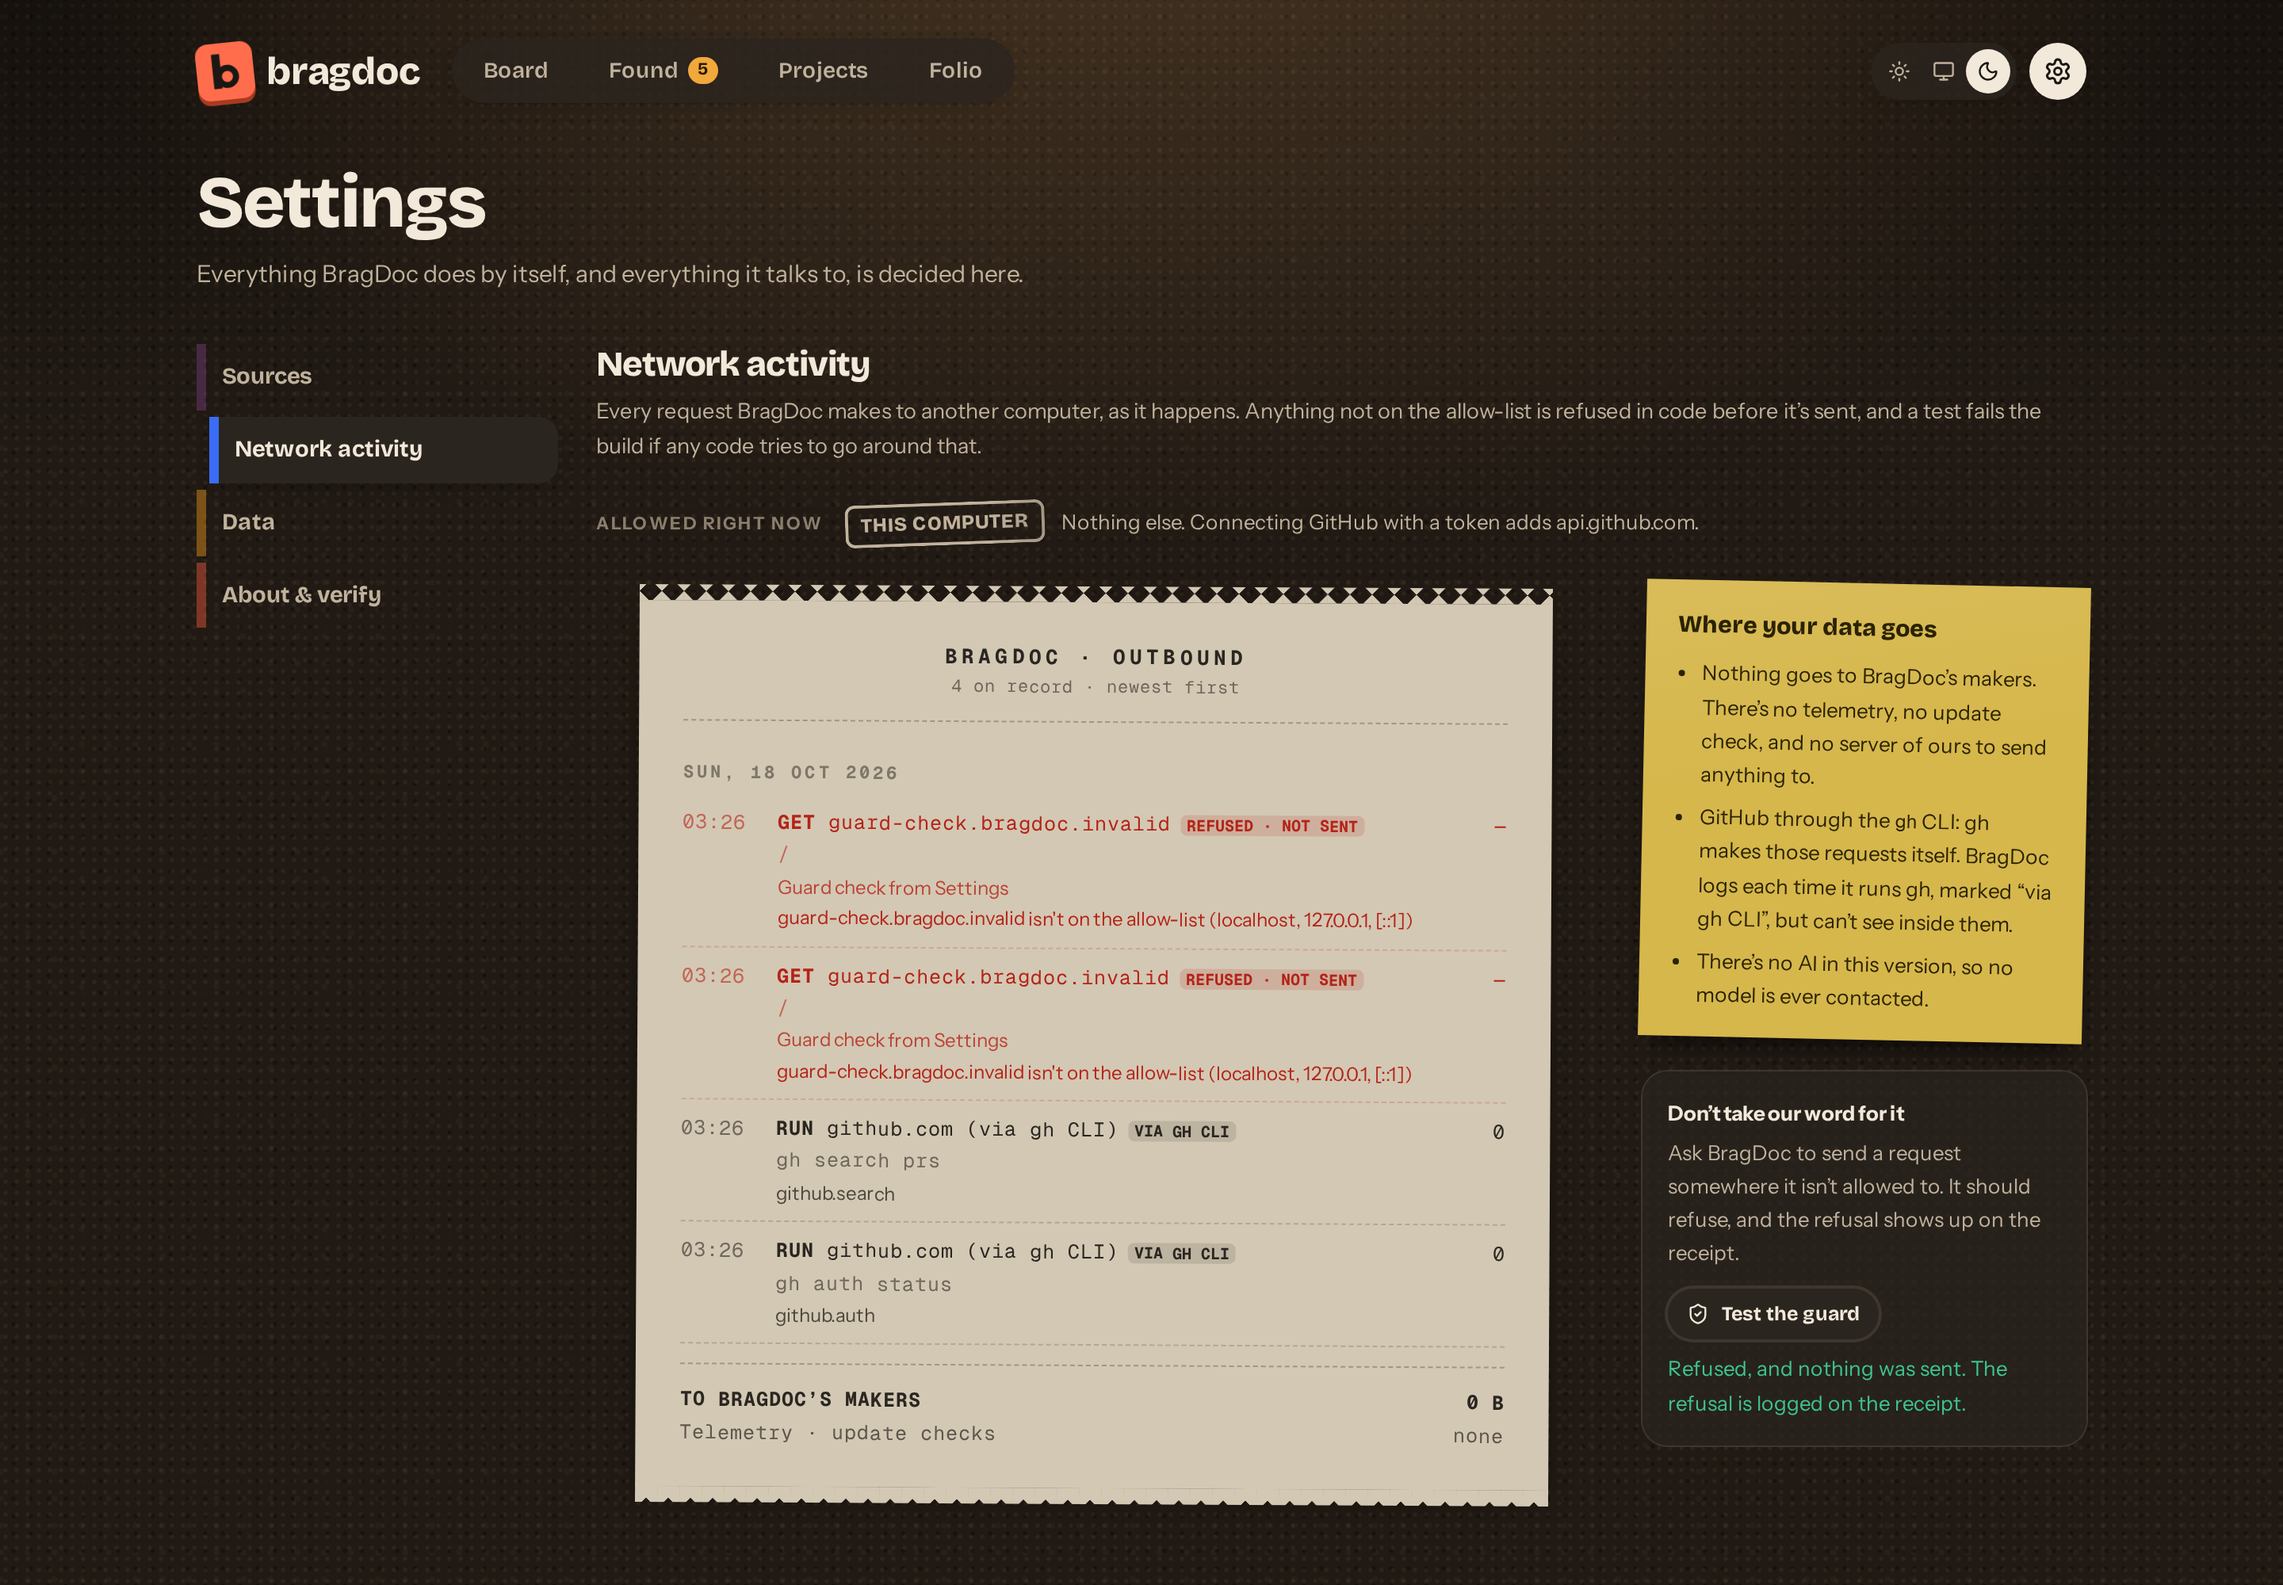
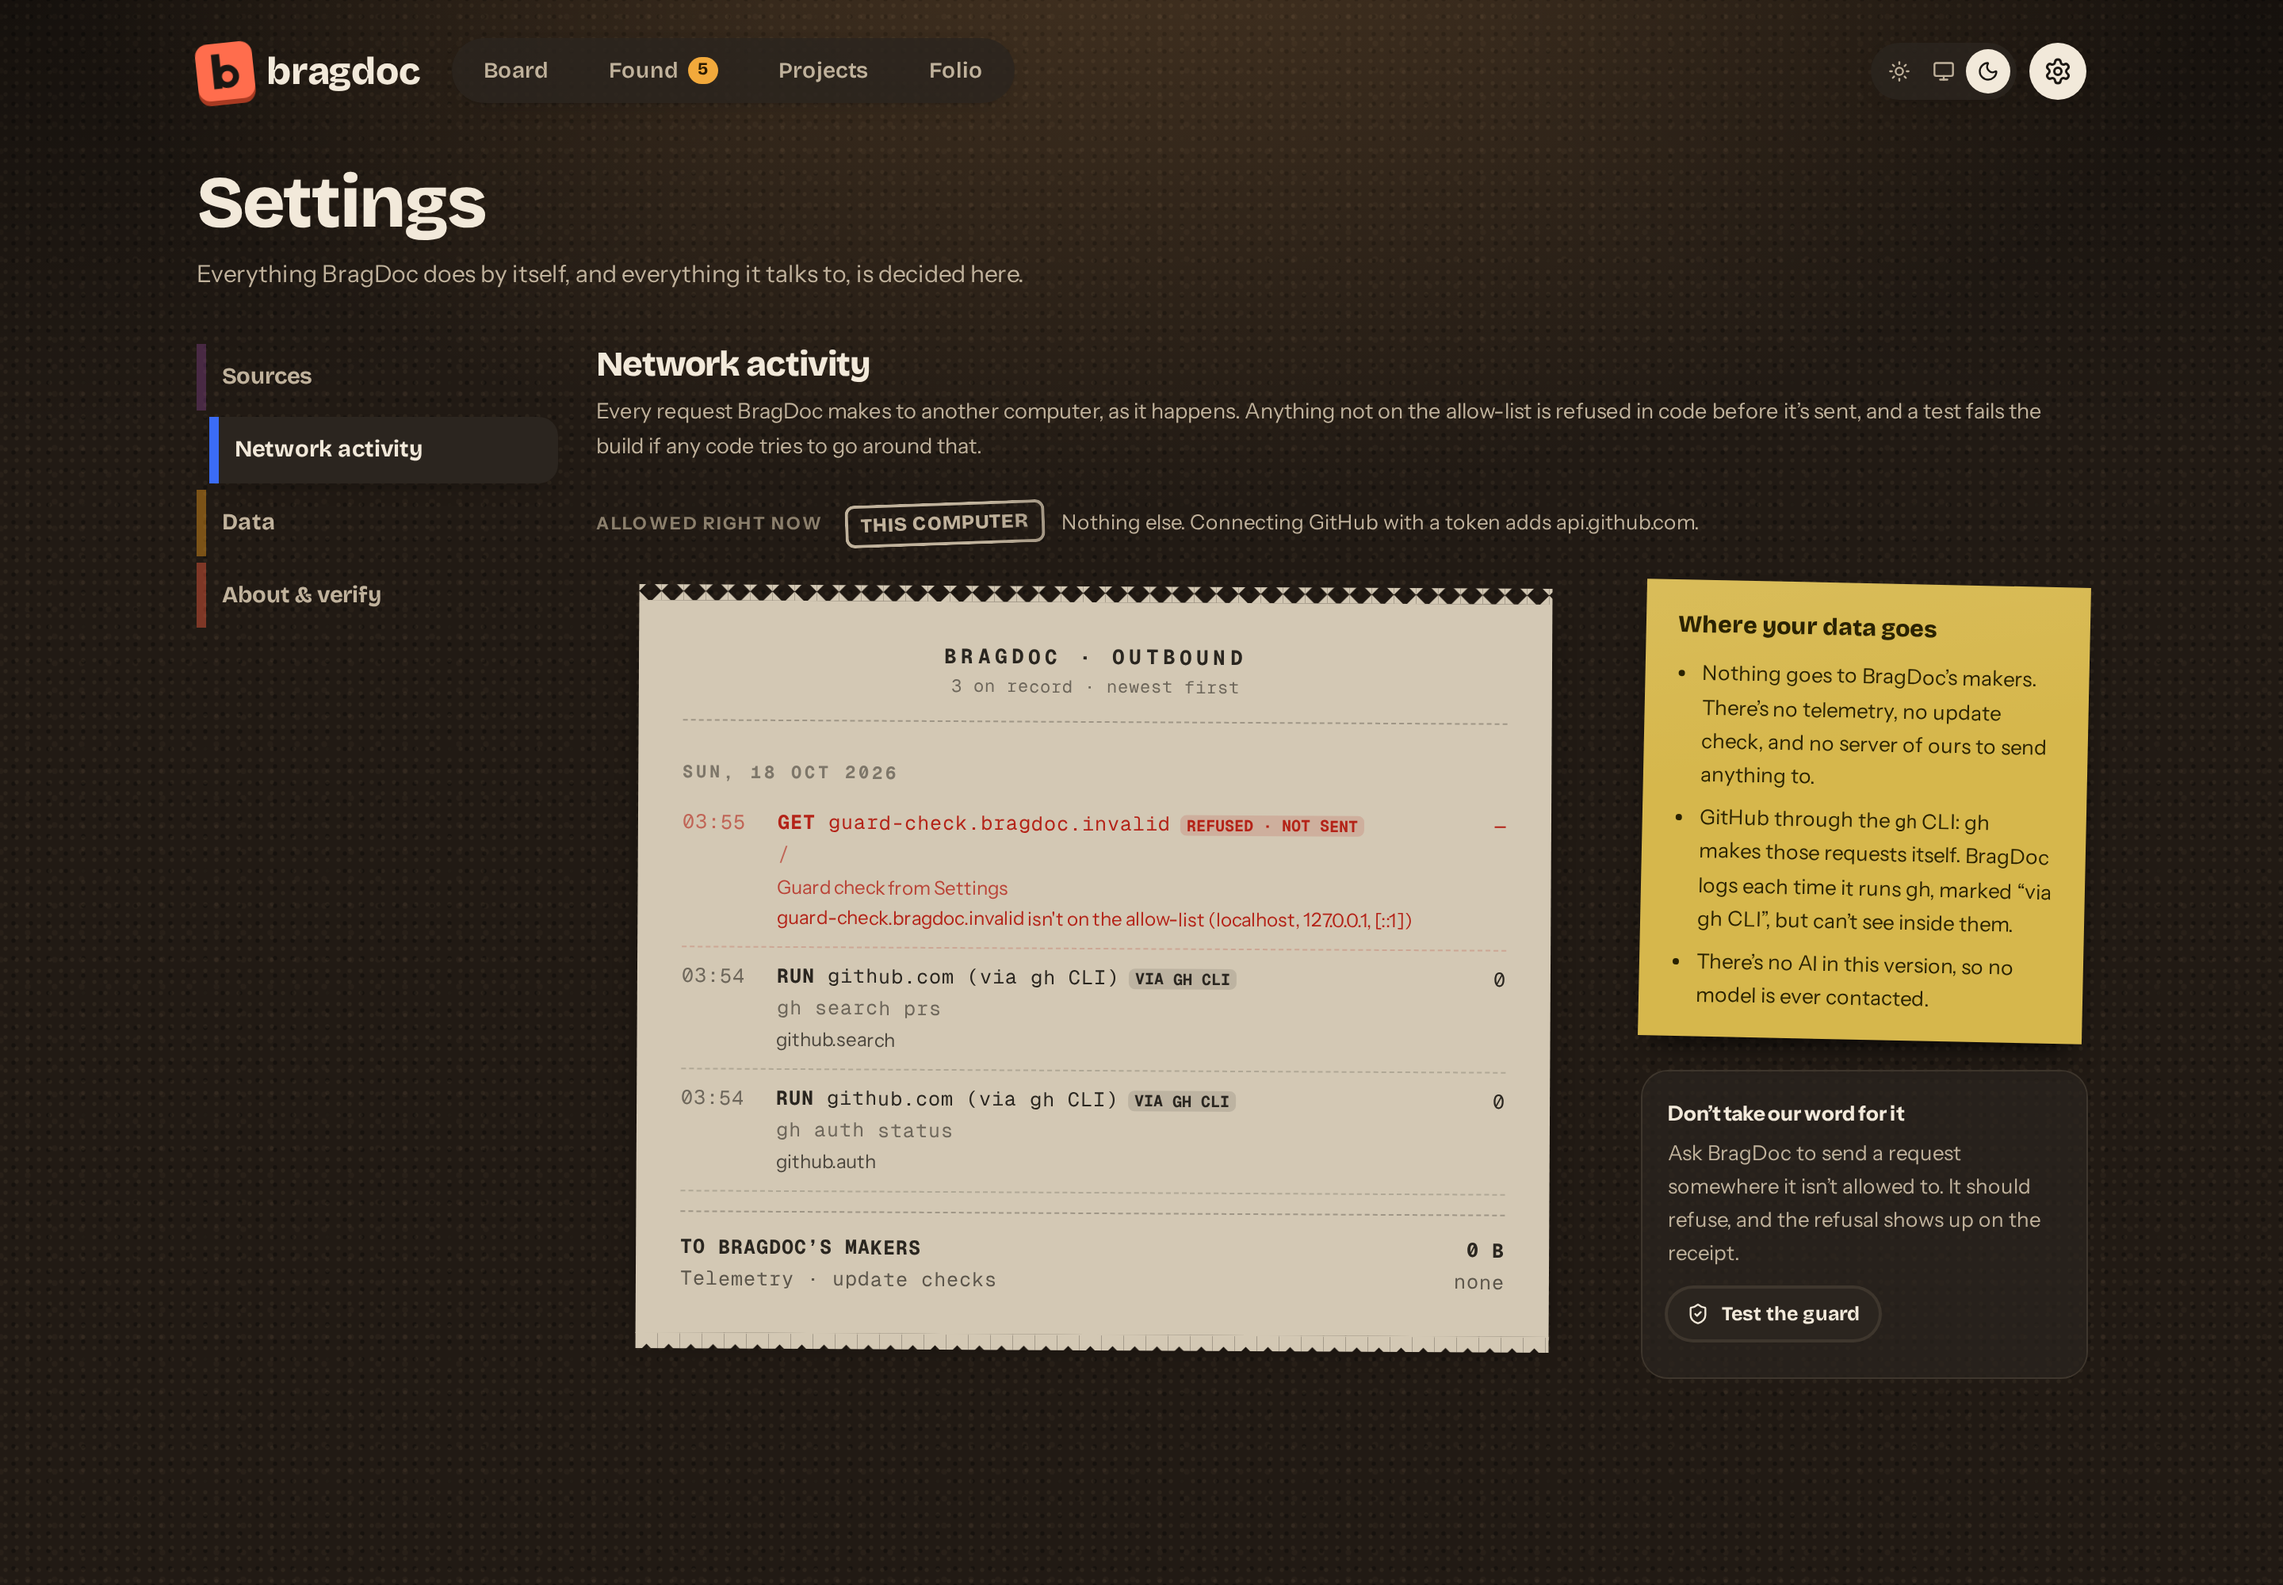
fix(docs-media): seed the guard check once, report seed errors as themselves, stop retrying a broken rig
From the independent review: the per-shot Test the guard click logged a second refusal in the dark shot; a non-seed
error inside seeding was swallowed by the health poll and seeding retried; a failed rig was booted again for every
shot and left its temp home. Also: the screenshot's file name follows its date, and the privacy wording says no
server of ours and keeps the gh caveat on the landing page.

diff --git a/tools/docs-media/capture.ts b/tools/docs-media/capture.ts
@@ -74,38 +74,37 @@ function build(script: 'build' | 'build:web', kit: boolean) {
 
 async function bootRig(data: Data): Promise<Rig> {
   const home = fs.mkdtempSync(path.join(os.tmpdir(), 'bragdoc-docs-media-'));
-  // The example world shows BragDoc's own address (Settings → Sources), so it runs on the default port if it can.
-  const port = data === 'example' ? await freePort(DEFAULT_PORT).catch(() => freePort()) : await freePort();
-  if (data === 'example' && port !== DEFAULT_PORT) console.warn(`  ! port ${DEFAULT_PORT} is taken: shots that show BragDoc's address will fail the leak scan`);
-  const args = [home, '--port', String(port)];
-  if (data === 'example') args.push('--fake-gh', path.join(HERE, 'fake-gh-prs.json'), new Date().toISOString());
-  const proc = spawn(path.join(HERE, 'serve.sh'), args, { stdio: ['ignore', 'pipe', 'pipe'] });
-  let log = '';
-  proc.stdout!.on('data', (d) => (log += d));
-  proc.stderr!.on('data', (d) => (log += d));
-  const base = `http://localhost:${port}`;
-  for (let i = 0; i < 150; i++) {
-    if (proc.exitCode !== null) throw new Error(`the rig exited (${proc.exitCode}):\n${log}`);
-    try {
-      if ((await fetch(`${base}/api/health`)).ok) {
-        const rig = { base, proc, home, now: new Date(SHOT_NOW) };
-        if (data === 'example') {
-          await seedExample(rig);
-          rig.now = new Date(Date.now() + 10 * 60_000); // a little after everything the seed stamped
-        }
-        return rig;
-      }
-    } catch (e) {
-      if ((e as Error).message.startsWith('seed:')) {
-        proc.kill();
-        throw e;
-      }
-      /* not up yet */
+  let proc: ChildProcess | undefined;
+  try {
+    // The example world shows BragDoc's own address (Settings → Sources), so it runs on the default port if it can.
+    const port = data === 'example' ? await freePort(DEFAULT_PORT).catch(() => freePort()) : await freePort();
+    if (data === 'example' && port !== DEFAULT_PORT) console.warn(`  ! port ${DEFAULT_PORT} is taken: shots that show BragDoc's address will fail the leak scan`);
+    const args = [home, '--port', String(port)];
+    if (data === 'example') args.push('--fake-gh', path.join(HERE, 'fake-gh-prs.json'), new Date().toISOString());
+    const child = spawn(path.join(HERE, 'serve.sh'), args, { stdio: ['ignore', 'pipe', 'pipe'] });
+    proc = child;
+    let log = '';
+    child.stdout!.on('data', (d) => (log += d));
+    child.stderr!.on('data', (d) => (log += d));
+    const base = `http://localhost:${port}`;
+    let up = false;
+    for (let i = 0; i < 150 && !up; i++) {
+      if (child.exitCode !== null) throw new Error(`the rig exited (${child.exitCode}):\n${log}`);
+      up = await fetch(`${base}/api/health`).then((r) => r.ok, () => false);
+      if (!up) await new Promise((r) => setTimeout(r, 200));
     }
-    await new Promise((r) => setTimeout(r, 200));
+    if (!up) throw new Error(`the rig didn't start:\n${log}`);
+    const rig = { base, proc: child, home, now: new Date(SHOT_NOW) };
+    if (data === 'example') {
+      await seedExample(rig); // outside the health poll: a seed error is reported as itself, and never retried
+      rig.now = new Date(Date.now() + 10 * 60_000); // a little after everything the seed stamped
+    }
+    return rig;
+  } catch (e) {
+    proc?.kill();
+    fs.rmSync(home, { recursive: true, force: true });
+    throw e;
   }
-  proc.kill();
-  throw new Error(`the rig didn't start:\n${log}`);
 }
 
 /** The example world, set up through BragDoc's own API, the way a person would (Welcome, Settings → Sources). */
@@ -139,8 +138,11 @@ async function seedExample({ base, home }: Rig) {
   fs.copyFileSync(path.join(ROOT, 'fixtures', 'example', 'evidence', 'slack-design.png'), aside);
   const when = new Date(now - 86_400_000 - 3 * 3_600_000);
   fs.utimesSync(aside, when, when);
-  fs.renameSync(aside, path.join(shots, 'Screenshot 2026-10-16 at 9.12.09 AM.png'));
+  const name = `Screenshot ${when.toISOString().slice(0, 10)} at 9.12.09 AM.png`; // macOS's naming, dated as the file is
+  fs.renameSync(aside, path.join(shots, name));
   await until('the screenshot to reach Found', async () => (await call('GET', '/api/found')).counts.screenshots > 0);
+  // "Test the guard", once, so Network activity shows a refusal (as a per-shot click it would add one per theme)
+  await call('POST', '/api/network-log/guard-check', {});
 }
 
 // ------------------------------------------------------------------------------------------------ hygiene
@@ -285,11 +287,18 @@ async function main() {
   const rigs = new Map<Data, Rig>();
   const building = !BASE && !argv.includes('--no-build');
   if (!BASE && building) build('build', true);
+  const broken = new Map<Data, Error>(); // a rig that failed to boot isn't tried again for every shot
   const rigFor = async (data: Data): Promise<{ base: string; now: Date }> => {
     if (BASE) return { base: BASE, now: new Date(SHOT_NOW) };
+    if (broken.has(data)) throw broken.get(data)!;
     if (!rigs.has(data)) {
       console.log(`Booting the ${data} rig (serve.sh)…`);
-      rigs.set(data, await bootRig(data));
+      try {
+        rigs.set(data, await bootRig(data));
+      } catch (e) {
+        broken.set(data, e as Error);
+        throw e;
+      }
     }
     return rigs.get(data)!;
   };

diff --git a/tools/docs-media/shots.ts b/tools/docs-media/shots.ts
@@ -74,6 +74,6 @@ export const SHOTS: Shot[] = [
   ...both({ name: 'docs-folio', doc: 'Folio: window, filters, clippings and the printout (concepts/folio)', route: '/folio', data: 'example', viewport: { width: 1440, height: 1100 } }),
   ...both({ name: 'docs-sources', doc: 'Settings → Sources: the GitHub and screenshots folder cards, both on (concepts/found-and-sources)', route: '/settings/sources', data: 'example', capture: { selector: ['[data-testid="source-github"]', '[data-testid="source-screenshots"]'], pad: 20 }, viewport: { width: 1440, height: 1100 } }),
   ...both({ name: 'docs-agents', doc: 'Settings → Sources: the agents card, MCP address, hidden token and the install command (agents/mcp)', route: '/settings/sources', data: 'example', capture: { selector: '[data-testid="source-agents"]', pad: 20 }, viewport: { width: 1440, height: 1500 } }),
-  ...both({ name: 'docs-network', doc: 'Settings → Network activity after a GitHub check and "Test the guard" (guarantees/network-activity)', route: '/settings/network', data: 'example', actions: [{ click: '[data-testid="guard-check-run"]' }, { waitFor: '[data-testid="guard-check-ok"]' }], viewport: { width: 1440, height: 1000 } }),
+  ...both({ name: 'docs-network', doc: 'Settings → Network activity after a GitHub check and a "Test the guard" refusal, both made while seeding (guarantees/network-activity)', route: '/settings/network', data: 'example', viewport: { width: 1440, height: 1000 } }),
   ...both({ name: 'docs-welcome', doc: 'Welcome, the first run (getting-started/quickstart)', route: '/welcome', viewport: { width: 1440, height: 1000 } }),
 ];

diff --git a/website/src/components/landing/copy.ts b/website/src/components/landing/copy.ts
@@ -62,7 +62,7 @@ export const GUARANTEES = [
 	},
 	{
 		title: 'Nothing leaves unless you connect it',
-		body: 'BragDoc has no server. It never sends your data to us or to anyone else: no telemetry, no update check, no analytics. The only network calls it makes are to services you connect yourself (in v0.1, that means GitHub), and Settings → Network activity shows you every one.',
+		body: 'There is no BragDoc server of ours, and BragDoc never sends your data to us or to anyone else: no telemetry, no update check, no analytics. The only network calls it makes are to services you connect yourself (in v0.1, that means GitHub), and Settings → Network activity shows you every one (if you connect through the gh CLI, it shows each time gh runs).',
 		href: '/guarantees/network-activity/',
 		link: 'Network activity',
 		tape: 'blue',

diff --git a/website/src/content/docs/whats-new.md b/website/src/content/docs/whats-new.md
@@ -22,6 +22,6 @@ The first release of BragDoc as a local-first app you run on your own computer, 
 - **[Importing](/moving-from-the-hosted-app/)** an export from the hosted app.
 - **Settings:** sources, [Network activity](/guarantees/network-activity/), your data and its problems, and the
   build you're running.
-- **[Your data is files](/concepts/your-data-is-files/)** in `~/.bragdoc`, with snapshots, and nothing ever erased.
+- **[Your data is files](/concepts/your-data-is-files/)** in `~/.bragdoc`, with snapshots, and removing something moves its file aside rather than erasing it.
 - Light, dark and system themes, and a layout that works on a phone.
 - No AI, no telemetry, no account. Run it with `npx`, a global install, a login service (macOS and Linux) or Docker.
